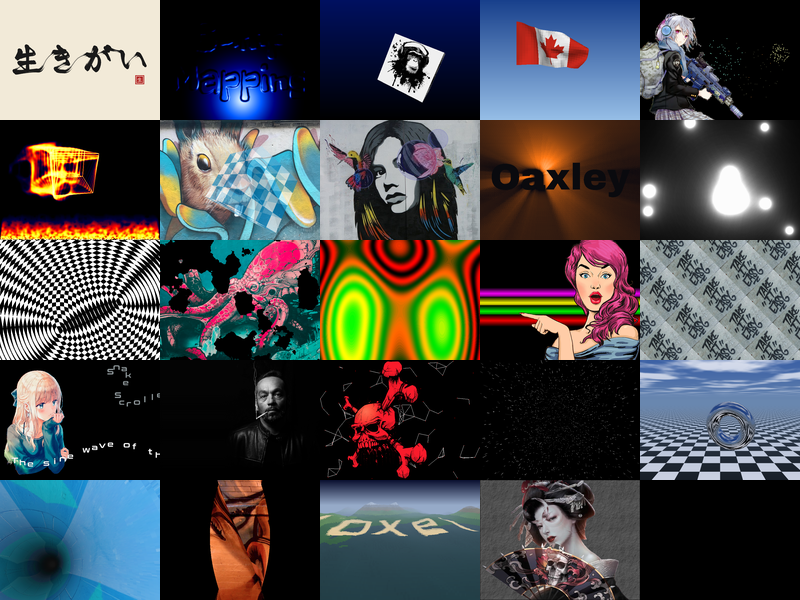
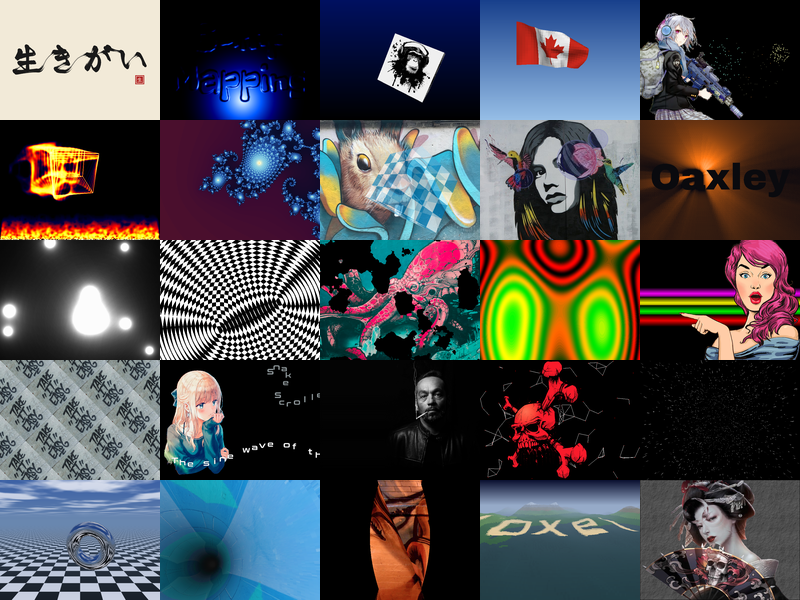
ts-fractal: README, screenshot, effect grid

diff --git a/files/effects/ts-fractal/README.md b/files/effects/ts-fractal/README.md
@@ -1,0 +1,57 @@
+# _Fractal Infinite Zoom_
+
+![License](https://img.shields.io/badge/license-Apache--2.0-blue.svg?style=flat-square)
+
+## **Screenshot**
+
+![screenshot](screenshot.png)
+
+## **Algorithm**
+
+### The loop
+
+The Mandelbrot set is not exactly self-similar, but it holds tiny copies of itself: the
+**mini-Mandelbrots**. The zoom dives into one of them, hidden in the Seahorse Valley (period 35,
+about 7 billion times smaller than the full set), so the last image looks like the first one. A short
+crossfade hides the remaining differences and the animation starts over.
+
+A mini-Mandelbrot is found from a point near it: its **period** _p_ (ball method on the iteration
+derivative), its **nucleus** _n_ (Newton's method on _z<sub>p</sub>(c) = 0_) and its complex **size**
+_s_, whose modulus is the scale of the copy and whose argument is its rotation. The map
+
+```typescript
+M(w) = n + s * w;
+```
+
+sends the full set onto the copy. The zoom follows this similarity: at level _z_ (0 to _N_), the view
+is the first view scaled by _|s|<sup>z/N</sup>_ and turned by _arg(s) z/N_ around the fixed point of
+_M_. The level _N_ shows exactly _M_(first view), and the copy is upright at the end of the zoom.
+
+### Keyframes
+
+Deep zooms need hundreds of thousands of iterations per pixel, far too slow for real time. A Node
+script (`scripts/fractal-keyframes.mts`) renders 34 keyframes offline, each one twice as deep as the
+previous one, with 3x3 samples per pixel. They are stored as 8-bit grayscale PNGs holding a
+**palette index** (the logarithm of the smooth escape count), 0 for the inside of the set.
+
+Every keyframe is the previous one scaled by 2 and slightly turned around the same pixel (the
+image of the fixed point). At level _z = k + f_ the effect draws keyframe _k_ scaled by _2<sup>f</sup>_
+and turned by _f_ steps (a small rotozoom walked incrementally on every line), and blends in the
+sharper keyframe _k+1_ where it covers the screen.
+
+### Colours
+
+The escape counts around a mini-Mandelbrot are higher than around the full set, so the last keyframe
+has the colours of the first one shifted by a constant offset. The palette is shifted back
+progressively during the zoom, so both ends get the same colours.
+
+Regenerate the keyframes with:
+
+```bash
+$ node scripts/fractal-keyframes.mts [--size 960x720] [--ss 3] [--target 35|39]
+```
+
+## **License**
+
+All the code are under the **Apache License 2.0**.  
+A copy of the license is available [here](https://choosealicense.com/licenses/apache-2.0/).

diff --git a/README.md b/README.md
@@ -23,6 +23,7 @@ An attempt to recreate all the old demoscene effects from the 90s in Typescript 
                 <li><a href="./files/effects/ts-flag/README.md">Country Flag</a></li>
                 <li><a href="./files/effects/ts-fireworks/README.md">Fireworks</a></li>
                 <li><a href="./files/effects/ts-flames/README.md">FireCube</a></li>
+                <li><a href="./files/effects/ts-fractal/README.md">Fractal Infinite Zoom</a></li>
             </ul>
         </td>
         <td valign="top">
